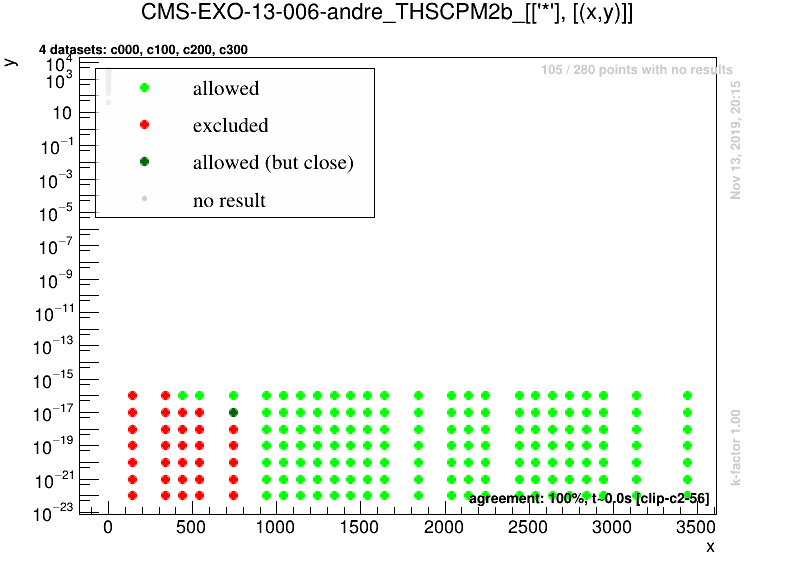
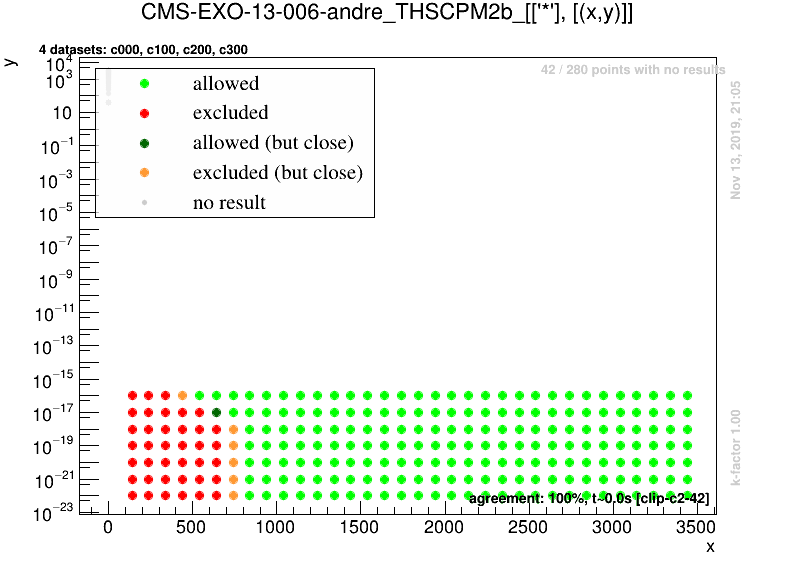
higher statistics for m2b

diff --git a/docs/Validation200widths.md b/docs/Validation200widths.md
@@ -46,4 +46,4 @@ The validation procedure for upper limit maps used here is explained in [arXiv:1
 | | [THSCPM6](SmsDictionary200widths#THSCPM6)| 18.8|<a href="https://smodels.github.io/validation/200widths/8TeV/CMS/CMS-EXO-13-006-eff/validation/THSCPM6_EqMassA__EqmassAx_EqmassBx-100_EqmassCy_EqwidthC1e-16_pretty.png"><img src="https://smodels.github.io/validation/200widths/8TeV/CMS/CMS-EXO-13-006-eff/validation/THSCPM6_EqMassA__EqmassAx_EqmassBx-100_EqmassCy_EqwidthC1e-16_pretty.png" /></a>  | |
 | | [THSCPM8](SmsDictionary200widths#THSCPM8)| 18.8|<a href="https://smodels.github.io/validation/200widths/8TeV/CMS/CMS-EXO-13-006-eff/validation/THSCPM8_2EqMassAx_EqMassBy_EqWidthB1e-16_pretty.png"><img src="https://smodels.github.io/validation/200widths/8TeV/CMS/CMS-EXO-13-006-eff/validation/THSCPM8_2EqMassAx_EqMassBy_EqWidthB1e-16_pretty.png" /></a>  | |
 
-This page was created Wed Nov 13 20:17:24 2019
+This page was created Wed Nov 13 21:08:13 2019

diff --git a/docs/ValidationUgly200widths.md b/docs/ValidationUgly200widths.md
@@ -49,4 +49,4 @@ To [official validation plots](Validation200widths)
 | | [THSCPM6](SmsDictionary200widths#THSCPM6)| 18.8| tbd |<a href="https://smodels.github.io/validation/200widths/8TeV/CMS/CMS-EXO-13-006-eff/validation/THSCPM6_EqMassA__EqmassAx_EqmassBx-100_EqmassCy_EqwidthC1e-16.png"><img src="https://smodels.github.io/validation/200widths/8TeV/CMS/CMS-EXO-13-006-eff/validation/THSCPM6_EqMassA__EqmassAx_EqmassBx-100_EqmassCy_EqwidthC1e-16.png" /></a>  | |
 | | [THSCPM8](SmsDictionary200widths#THSCPM8)| 18.8| tbd |<a href="https://smodels.github.io/validation/200widths/8TeV/CMS/CMS-EXO-13-006-eff/validation/THSCPM8_2EqMassAx_EqMassBy_EqWidthB1e-16.png"><img src="https://smodels.github.io/validation/200widths/8TeV/CMS/CMS-EXO-13-006-eff/validation/THSCPM8_2EqMassAx_EqMassBy_EqWidthB1e-16.png" /></a>  | |
 
-This page was created Wed Nov 13 20:17:53 2019
+This page was created Wed Nov 13 21:08:40 2019
